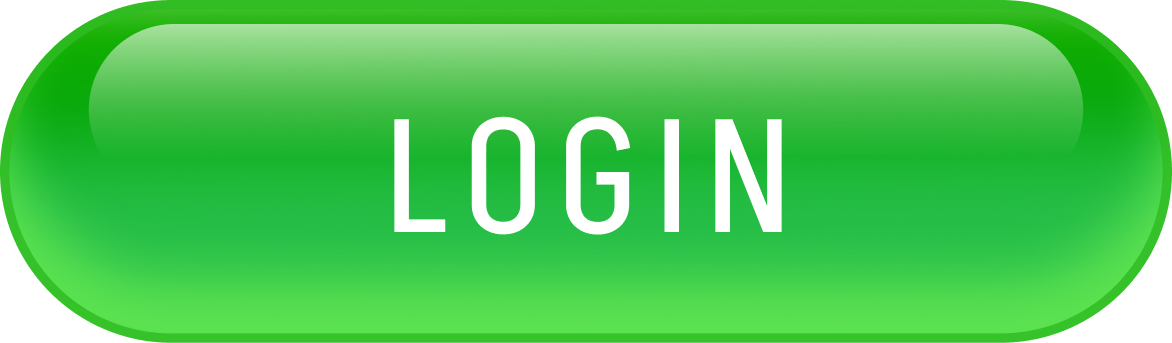
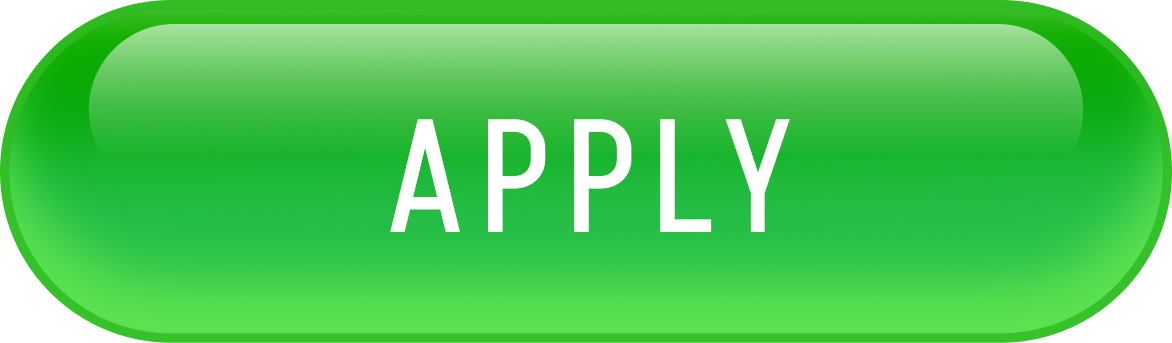
add notification and change login to apply

Changed region(s): [[0.3379, 0.3207, 0.6758, 0.6997], [0.4915, 0.3207, 0.5222, 0.3499]]

diff --git a/components/LoginSponsorButton.tsx b/components/LoginSponsorButton.tsx
@@ -1,8 +1,8 @@
 "use client"
 
 import Link from "next/link"
-import Image from "next/image"  
-import {useState} from "react"
+import Image from "next/image"
+import { useState } from "react"
 import LoginButton from "@/public/login_button.png"
 import LoginButtonHover from "@/public/login_button_hover.png"
 import SponsorButton from "@/public/sponsor_button.png"
@@ -12,46 +12,46 @@ import SponsorButtonHover from "@/public/sponsor_button_hover.png"
 const buttonStyle = "flex items-center rounded-[45px] shadow-md shadow-[#345068] hover:drop-shadow-[0_0_30px_rgba(255,255,255,0.8)] cursor-pointer transition-all duration-50";
 
 const LoginSponsorButton = () => {
-    const [loginHover, setLoginHover] = useState(false)
-    const [sponsorHover, setSponsorHover] = useState(false)
+  const [loginHover, setLoginHover] = useState(false)
+  const [sponsorHover, setSponsorHover] = useState(false)
 
-    return (
-        <div className="outline-[0.5px] outline-white bg-white/25 backdrop-blur-sm p-8 md:p-10 rounded-2xl flex flex-col gap-7 items-center w-72 sm:w-80 md:w-96 lg:w-[420px] mx-auto">
+  return (
+    <div className="outline-[0.5px] outline-white bg-white/25 backdrop-blur-sm p-8 md:p-10 rounded-2xl flex flex-col gap-7 items-center w-72 sm:w-80 md:w-96 lg:w-[420px] mx-auto">
 
-            {/*Login Button*/}
-            <Link href="/login" //sends to login page
-            > 
-                <button className={buttonStyle}
-                onMouseEnter={() => setLoginHover(true)}
-                onMouseLeave={() => setLoginHover(false)}
-                >
-                    <Image src={loginHover ? LoginButtonHover : LoginButton} //changes image on hover
-                    alt = "Login"
-                    width = {220}
-                    height = {220}
-                    className = "w-44 sm:w-52 md:w-64 lg:w-72 transition-transform duration-200"
-                    ></Image>
-                </button>
-            </Link>
+      {/*Login Button*/}
+      <Link href="/login" //sends to login page
+      >
+        <button className={buttonStyle}
+          onMouseEnter={() => setLoginHover(true)}
+          onMouseLeave={() => setLoginHover(false)}
+        >
+          <Image src={loginHover ? LoginButtonHover : LoginButton} //changes image on hover
+            alt="Login"
+            width={220}
+            height={220}
+            className="w-44 sm:w-52 md:w-64 lg:w-72 transition-transform duration-200"
+          ></Image>
+        </button>
+      </Link>
 
-            {/*Sponsors Button*/}
-            <Link href="/sponsors" //sends to sponsors page
-            >
-                <button className={buttonStyle}
-                onMouseEnter={() => setSponsorHover(true)}
-                onMouseLeave={() => setSponsorHover(false)}
-                >
-                    <Image src={sponsorHover ? SponsorButtonHover : SponsorButton} //changes image on hover
-                    alt = "Sponsor Us"
-                    width = {220}
-                    height = {220}
-                    className = "w-44 sm:w-52 md:w-64 lg:w-72 transition-transform duration-200"
-                    ></Image>
-                </button>
-            </Link>
+      {/*Sponsors Button*/}
+      <Link href="/sponsors" //sends to sponsors page
+      >
+        <button className={buttonStyle}
+          onMouseEnter={() => setSponsorHover(true)}
+          onMouseLeave={() => setSponsorHover(false)}
+        >
+          <Image src={sponsorHover ? SponsorButtonHover : SponsorButton} //changes image on hover
+            alt="Sponsor Us"
+            width={220}
+            height={220}
+            className="w-44 sm:w-52 md:w-64 lg:w-72 transition-transform duration-200"
+          ></Image>
+        </button>
+      </Link>
 
-        </div>
-    )
+    </div>
+  )
 
 }
 

diff --git a/components/WarningBanner.tsx b/components/WarningBanner.tsx
@@ -1,0 +1,49 @@
+'use client';
+
+import { useState, useEffect } from 'react';
+import Window from './Window';
+
+const dueDate = "October 1st";
+
+const WarningBanner = () => {
+  const [isVisible, setIsVisible] = useState(false);
+
+  useEffect(() => {
+    const bannerDismissed = localStorage.getItem('applicationBannerDismissed');
+    if (!bannerDismissed || bannerDismissed !== 'true') {
+      setIsVisible(true);
+    }
+  }, []);
+
+  const handleClose = () => {
+    localStorage.setItem('applicationBannerDismissed', 'true');
+    setIsVisible(false);
+  };
+
+  if (!isVisible) return null;
+
+  return (
+    <div className="fixed left-5 bottom-[170px] z-300">
+      <Window
+        title={
+          <span className="text-lg mr-3">⚠ Application Reminder</span>
+        }
+        onClose={handleClose}
+        initialPosition={{ x: 0, y: 0 }}
+        initialSize={{ width: 320, height: 130 }}
+        closable={true}
+        minimizable={false}
+        maximizable={false}
+        resizable={false}
+      >
+        <div className="p-4 flex items-center h-full">
+          <span className="font-ms-sans-serif text-sm">
+            Applications are due <span className="font-bold text-red-700">{dueDate}</span>. If you haven&apos;t applied yet, don&apos;t miss out!
+          </span>
+        </div>
+      </Window>
+    </div>
+  );
+};
+
+export default WarningBanner;

diff --git a/app/page.tsx b/app/page.tsx
@@ -8,11 +8,13 @@ import RetroRemix from "@/components/RetroRemix/RetroRemix";
 import Schedule from "@/components/Schedule/Schedule";
 import Footer from "@/components/Footer";
 import OurSponsors from "@/components/OurSponsors";
+import WarningBanner from "@/components/WarningBanner";
 
 const Home = () => {
   return (
     <>
       <Background>
+        <WarningBanner />
         <main className="flex flex-col">
           <Navbar routes={routes} />
           <div id="header" className="w-full h-screen">
